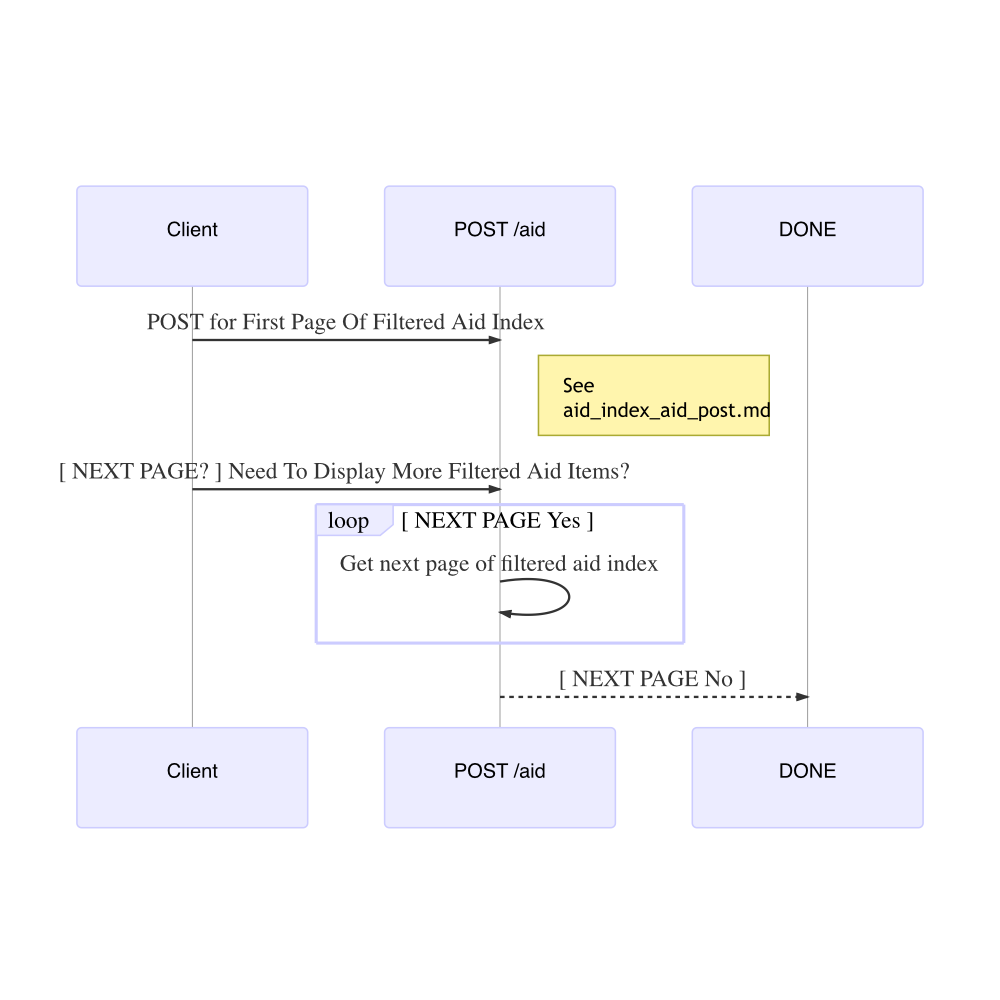
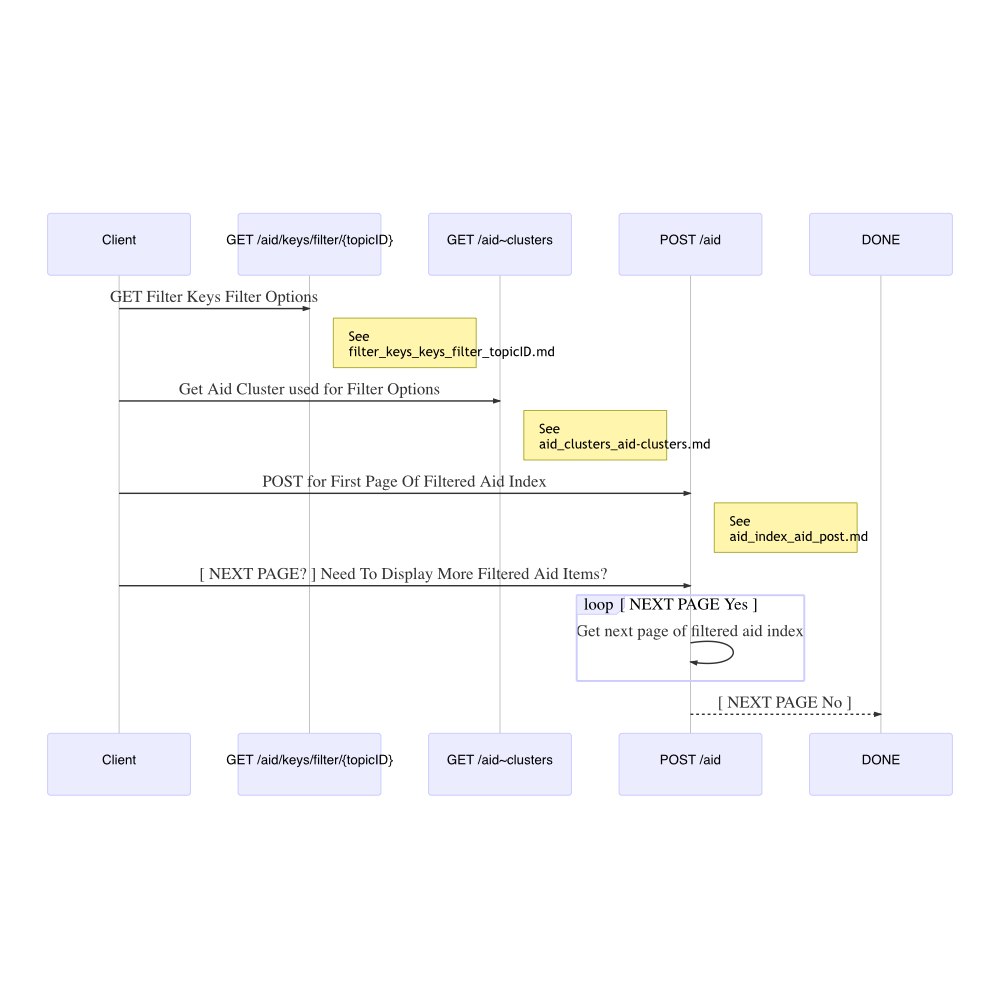
Updated index story 2 with filter options

diff --git a/aid-api/user-story-index-2.md b/aid-api/user-story-index-2.md
@@ -2,8 +2,9 @@
 
 Description: The client needs to display a filtered index of aid items.
 
+- [] Retreive filter options from endpoints for filter keys (GET /aid/keys/filter/{topicID} [Filter Keys Endpoint Readme](/aid_api/filter_keys_keys_filter_topicID.md)) and clusters (GET /aid-clusters [Aid Clusters Endpoint Readme](/aid_api/aid_clusters_aid-clusters.md)).
 - [] Request the filtered Aid Index. [Filtered Index Endpoint Readme](/aid_api/aid_index_aid_get.md).
-    - [] Use the base POST /aid with filter options provided to retrieve page 1 of filtered aid items index.
+    - [] Use the base POST /aid with and desired filter options I provided to retrieve page 1 of filtered aid items index.
 - [] If there are more aid items past page 1 and the client needs to access more filtered aid items use the POST /aid with the same filter options except page which should be itterated by 1.
 
 ![Alt text](/aid-api/assets/user-story-index-2.png?raw=true)
